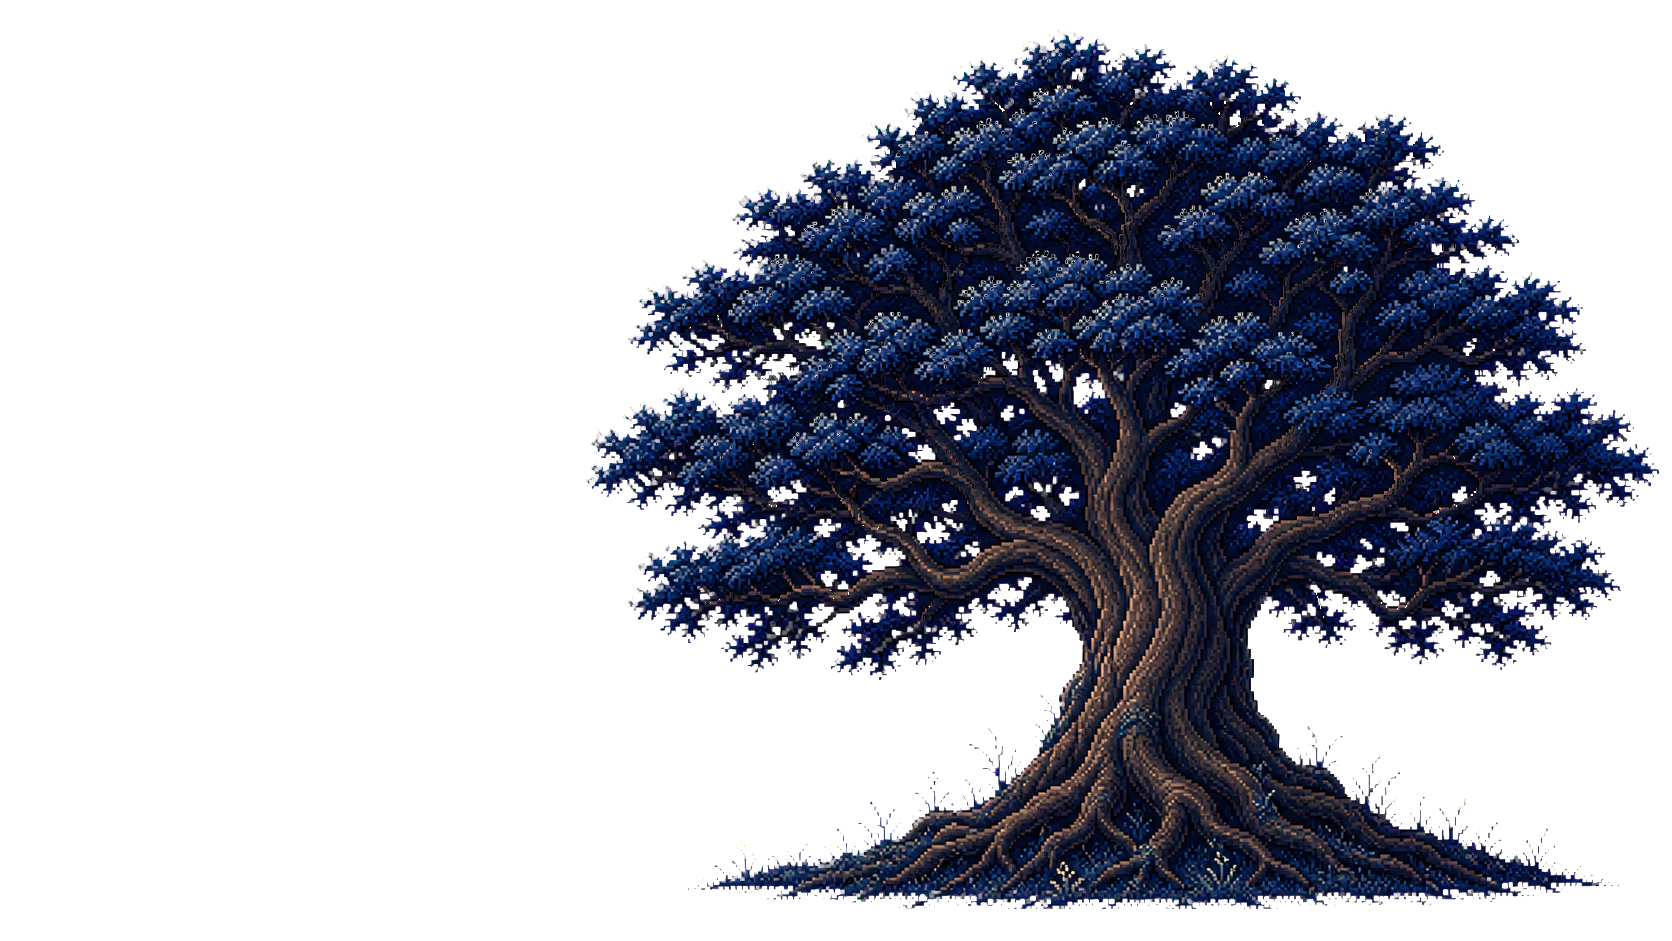
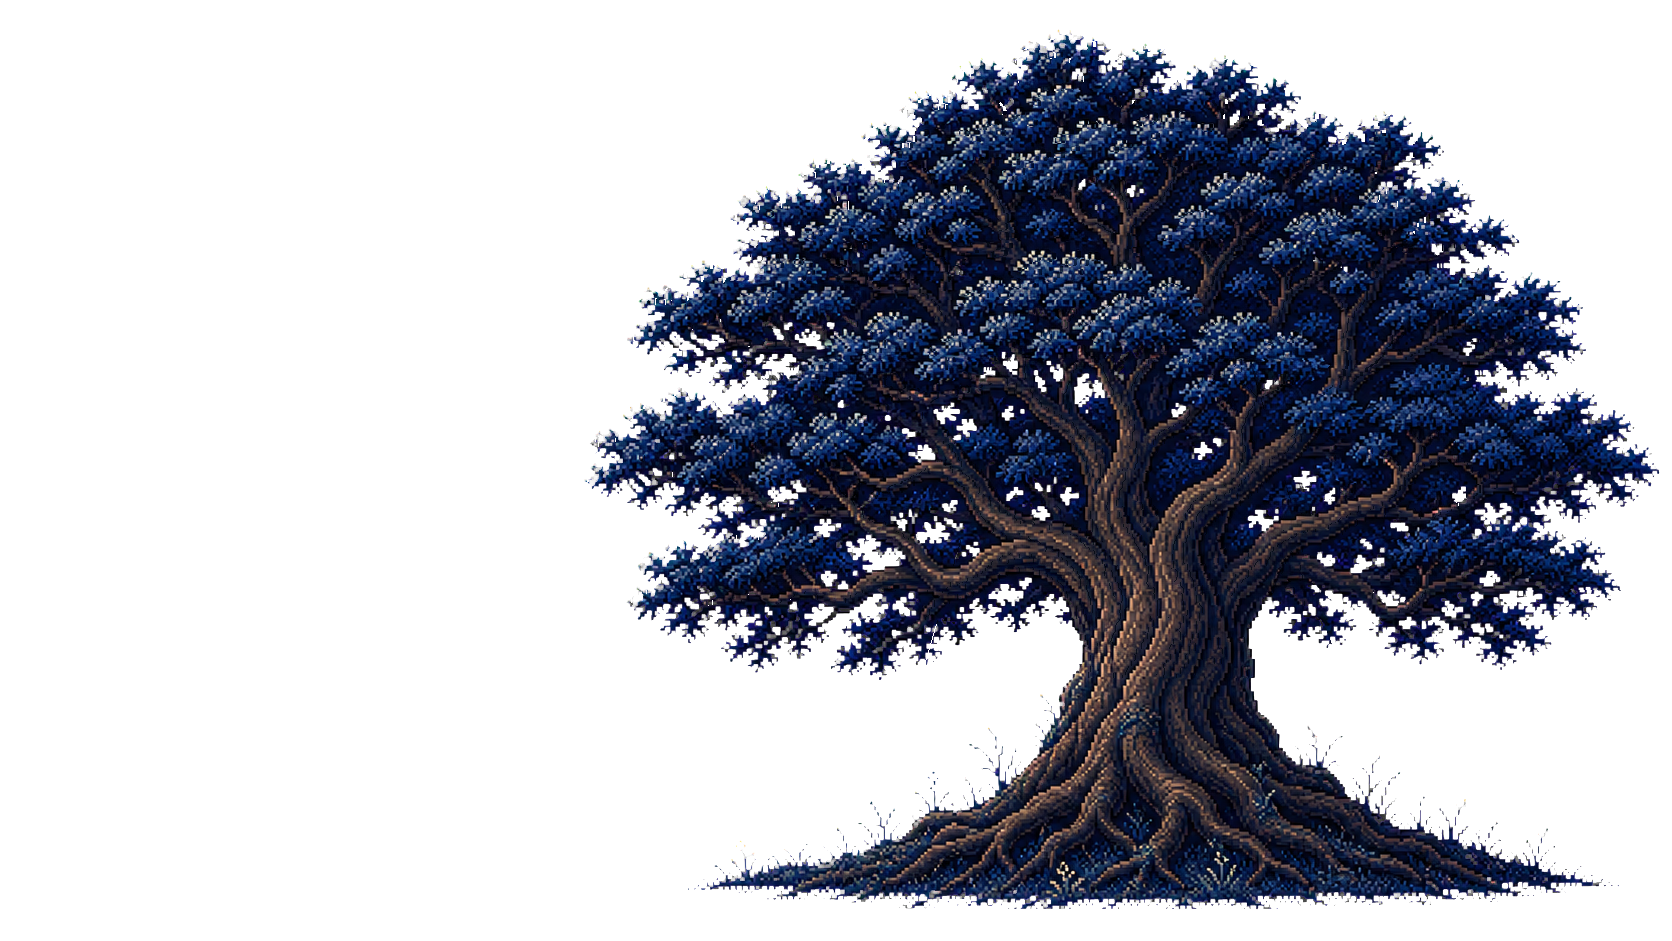
release 0.1.84

diff --git a/assets/js/dynamic-cv.js b/assets/js/dynamic-cv.js
@@ -6,8 +6,7 @@ const isLocalStudioPreview = ['127.0.0.1', 'localhost', '[::1]'].includes(window
 const isDaySceneStudio = Boolean(sceneStudio && isLocalStudioPreview && searchParams.get('studio') === 'day');
 const isSceneStudioMode = Boolean(sceneStudio && isLocalStudioPreview && (searchParams.get('studio') === '1' || searchParams.get('studio') === 'day'));
 const dayWindFrameDuration = 180;
-const nightWindFrameDuration = 260;
-const sceneStudioWindFrameDuration = isDaySceneStudio ? dayWindFrameDuration : nightWindFrameDuration;
+const nightWindFrameDuration = 240;
 const nightTreeWindFrames = Array.from(
   { length: 8 },
   (_, index) => `assets/pixel/home/tree-sway-v2-${String(index).padStart(2, '0')}.png`
@@ -1559,7 +1558,22 @@ function initializeSceneStudio(studio) {
   const inputs = [...studio.querySelectorAll('[data-scene-control]')];
   const status = studio.querySelector('[data-scene-status]');
   const canopySparkles = studio.querySelector('.studio-canopy-sparkles');
-  const storageKey = isDaySceneStudio ? 'zhengji-scene-studio-day-v4' : 'zhengji-scene-studio-night-v5';
+  const storageKey = isDaySceneStudio ? 'zhengji-scene-studio-day-v5' : 'zhengji-scene-studio-night-v6';
+  const sceneStudioWindDefaults = isDaySceneStudio
+    ? {
+        'day-tree-amplitude': 6,
+        'day-tree-band-height': 4,
+        'day-tree-cycle-seconds': 3,
+        'day-tree-show-mask': false,
+        'wind-frame-duration': dayWindFrameDuration
+      }
+    : {
+        'day-tree-amplitude': 3,
+        'day-tree-band-height': 8,
+        'day-tree-cycle-seconds': 3.6,
+        'day-tree-show-mask': false,
+        'wind-frame-duration': nightWindFrameDuration
+      };
   const sceneStudioConfig = {
     'tree-x': 22.8,
     'tree-y': 18.6,
@@ -1580,11 +1594,7 @@ function initializeSceneStudio(studio) {
     'ground-y': -5.2,
     'ground-scale': 0.65,
     'ground-layer': 5,
-    'day-tree-amplitude': 6,
-    'day-tree-band-height': 4,
-    'day-tree-cycle-seconds': 3,
-    'day-tree-show-mask': false,
-    'wind-frame-duration': sceneStudioWindFrameDuration
+    ...sceneStudioWindDefaults
   };
   const properties = {
     'tree-x': '--tree-x',
@@ -1700,11 +1710,7 @@ function initializeSceneStudio(studio) {
       'ground-y': -5.2,
       'ground-scale': 0.65,
       'ground-layer': 5,
-      'day-tree-amplitude': 6,
-      'day-tree-band-height': 4,
-      'day-tree-cycle-seconds': 3,
-      'day-tree-show-mask': false,
-      'wind-frame-duration': sceneStudioWindFrameDuration
+      ...sceneStudioWindDefaults
     });
     renderSceneStudio();
     restartSceneStudioAnimation();

diff --git a/index.html b/index.html
@@ -21,10 +21,10 @@
     <link rel="preconnect" href="https://fonts.googleapis.com" />
     <link rel="preconnect" href="https://fonts.gstatic.com" crossorigin />
     <link href="https://fonts.googleapis.com/css2?family=Bodoni+Moda:opsz,wght@6..96,500;6..96,600;6..96,700;6..96,800&family=DM+Mono:wght@400;500&family=Manrope:wght@400;500;600&display=swap" rel="stylesheet" />
-    <link rel="stylesheet" href="assets/css/dynamic-cv.css?v=0.1.83" />
-    <script src="assets/js/i18n.js?v=0.1.83" defer></script>
-    <script src="assets/js/day-ground-wind.js?v=0.1.83" defer></script>
-    <script src="assets/js/dynamic-cv.js?v=0.1.83" defer></script>
+    <link rel="stylesheet" href="assets/css/dynamic-cv.css?v=0.1.84" />
+    <script src="assets/js/i18n.js?v=0.1.84" defer></script>
+    <script src="assets/js/day-ground-wind.js?v=0.1.84" defer></script>
+    <script src="assets/js/dynamic-cv.js?v=0.1.84" defer></script>
   </head>
   <body data-active-chapter="home" data-scroll-motion="enabled">
     <a class="skip-link" href="#main-content" data-i18n="skip.content">Skip to content</a>
@@ -109,7 +109,7 @@
           <label>Vertical <input type="range" min="-18" max="18" step="0.1" value="-5.2" data-scene-control="ground-y" /><output data-scene-value="ground-y"></output></label>
           <label>Size <input type="range" min="0.5" max="1.15" step="0.01" value="0.65" data-scene-control="ground-scale" /><output data-scene-value="ground-scale"></output></label>
           <label>Depth / layer <input type="range" min="1" max="5" step="1" value="5" data-scene-control="ground-layer" /><output data-scene-value="ground-layer"></output></label>
-          <label class="studio-wind-frame-control">Motion / frame <input type="range" min="180" max="900" step="20" value="180" data-scene-control="wind-frame-duration" /><output data-scene-value="wind-frame-duration"></output></label>
+          <label class="studio-wind-frame-control">Motion / frame <input type="range" min="180" max="900" step="20" value="240" data-scene-control="wind-frame-duration" /><output data-scene-value="wind-frame-duration"></output></label>
         </div>
 
         <div class="studio-actions">

diff --git a/docs/design/TIME_OF_DAY_THEME.md b/docs/design/TIME_OF_DAY_THEME.md
@@ -9,8 +9,8 @@
 ## 00 场景
 
 - 夜晚保留现有星空、夜树、草地、Saber、树木星雨、坠落荧光与 Saber 音乐彩蛋。
-- 公开夜景与 Night Scene Studio 使用 `tree-sway-v2` 八帧树动画；第 1、5 帧保持批准静止树，树干、根系和主枝固定，其余帧只移动树冠叶片。树冠中央保留深蓝承托叶影，移动叶缘不得在枝干旁露出透明夜空。夜景的树、草与 Saber 待机帧使用 `260ms`；日景草地保持第 3 档、`180ms`。两种主题的节奏独立，禁止用全局常量覆盖夜景。
-- 白天公开场景使用 `sky-day-v2`、`ground-foundation-day-v1`、`tree-day-v2` 与 `meadow-day-wind-v7`；树木保持静态，草地维持第 3 档、`180ms` 节奏。Day Scene Studio 使用 `tree-day-pixel-wind-v2` 的内部承托、后叶、固定枝干和前叶四层 Canvas 风动树，并从 `meadow-day-v1` 实时绘制独立草地 Canvas；Malinois 素材暂存于 `assets/pixel/home/`，当前页面与 Day Scene Studio 均不加载其图层或动画。
+- 公开夜景与 Night Scene Studio 使用 `tree-sway-v2` 八帧树动画；第 1、5 帧保持批准静止树，树干、根系、主枝及其暗色描边逐像素固定。其余帧按内部承托暗叶 → 后景内层叶 → 前景叶团 → 固定枝干的遮盖顺序绘制：内层深蓝叶片以约 `1px` 低幅跟随，外层叶团保持完整摆幅。承托暗叶覆盖到树冠下缘，移动叶缘不得在枝干旁露出透明夜空。夜景的树、草与 Saber 待机帧使用 `240ms`；日景草地保持第 3 档、`180ms`。两种主题的节奏独立，禁止用全局常量覆盖夜景。
+- 白天公开场景使用 `sky-day-v2`、`ground-foundation-day-v1`、`tree-day-v2` 与 `meadow-day-wind-v7`；树木保持静态，草地维持第 3 档、`180ms` 节奏。Day Scene Studio 使用 `tree-day-pixel-wind-v2` 的内部承托、后叶、固定枝干和前叶四层 Canvas 风动树，并从 `meadow-day-v1` 实时绘制独立草地 Canvas。未启用的 Malinois 试验素材已移除，当前白天页面与 Day Scene Studio 均不加载角色图层或动画。
 - 白天不初始化依赖夜景叙事的坠落荧光、树木星雨和 Saber 音乐触发器，避免隐藏控件仍可聚焦或触发。
 - 白天与夜晚的 `1672×941` 天空、地基、树木和草地对应资产在所有响应式断点共享同一套场景坐标；禁止按主题单独移动对应图层，保证逐层一一对齐。
 - 日景主页当前使用原始 `tree-day-v2` 静态树；禁止整棵树的 CSS 位移和未锁定原像素的 AI 帧。后续树冠精灵图只能通过蒙版编辑生成，且树干、根系和主枝必须与 `tree-day-v2` 逐像素一致，避免透明空区、边缘拖影及根系位移。

diff --git a/docs/changes/0.1.83.md b/docs/changes/0.1.83.md
@@ -6,9 +6,12 @@
 
 ## 清理内容
 
-- 删除未被页面、运行时脚本、样式或本地风场调试页引用的 84 个旧像素资产：马犬试验帧、草地 v6、日间树 v1 与 v6–v9，以及夜间树 v1。
-- 保留公开页面动态加载的日间草地 v7 帧与夜间树 v2 帧。
+- 首页素材包从 315 张收敛到 40 张在用图片；发布仓库删除其中 84 个曾被跟踪的旧像素资产，其余本地试验导出同步移出工作区。清理范围包括马犬试验帧、草地风动 v1–v6 过程稿、日间树 v1 与 v6–v9、夜间树 v1、旧精灵表和废弃角色导出。
+- 删除根目录 `tmp/` 的 126 个临时文件、已验收的页面截图、生成缓存和三项退役工具；当前树木分层工具继续保留在本地，夜间生成器改用仍在资产包内的 `tree-sway-v2-00.png` 作为静止源帧。
+- 将 67 个可重建的浏览器截图、日志、旧视觉方案和未引用副图移出项目目录并保存到系统临时归档，共 34,858,294 字节；可编辑源目录、仓库备份与夜景构图参考继续保留。
+- 当前公开场景保留日间草地 v7、夜间树 v2、日间树四层风动素材、Saber 待机素材和两艘背景舰船；主页素材目录内已无未引用图片。
 - 将 `tmp/`、本地工具、场景截图、马犬试验、旧树与旧草地生成序列加入 `.gitignore`，避免后续中间产物进入发布仓库。
+- 昼夜主题与交互规则同步移除已经退役的 Malinois 引用。
 - CSS 与运行时脚本缓存参数升级至 `0.1.83`。
 
 ## 验证

diff --git a/docs/changes/0.1.84.md b/docs/changes/0.1.84.md
@@ -1,0 +1,20 @@
+# 0.1.84
+
+- 状态：本地工作树
+- 日期：2026-08-12
+- 版本来源：`package.json`
+- 影响页面：公开首页、Night Scene Studio、Day Scene Studio
+
+## 参数定稿
+
+- 昼夜场景共用已确认的构图参数：树木 `22.8 / 18.6 / 0.75 / z1`，Saber `62.1 / 68 / 0.48 / z3`，地基 `4.8 / 1.02 / 0.89 / z1`，草地 `9.3 / -5.2 / 0.65 / z5`。
+- 夜间树、草与 Saber 待机帧固定为 `240ms`；Night Studio 草稿恢复值同步为最大摆幅 `3px`、条带高度 `8px`、循环时长 `3.6s` 和 `240ms`。夜间不显示日间条带风控制，这组条带值只用于保持复制配置完整。
+- 夜间八帧树动画重新分层生成：内部承托暗叶封住树冠空洞，主干走廊里的深蓝叶片以约 `1px` 跟随，外层叶团保持原摆幅，暖色树皮及相邻暗色描边作为最终固定层逐像素覆盖。圈内下半树冠已经纳入无透明天空回归范围。
+- 日间树冠和草地保持最大摆幅 `6px`、条带高度 `4px`、循环时长 `3.0s`；公开日间草地与 Day Studio 的基础帧节奏保持 `180ms`。
+- Studio 本地存储键升级为 day v5 与 night v6，旧草稿不会覆盖本次定稿值；恢复按钮按当前昼夜模式载入对应参数。
+- 静态资源缓存参数统一升级到 `0.1.84`。
+
+## 验证
+
+- `npm test`：126 项通过。
+- 本地 Day Studio 实测回读 `6px / 4px / 3.0s / 180ms`，Night Studio 实测回读 `3px / 8px / 3.6s / 240ms`；两页控制台均无错误。

diff --git a/docs/CHANGELOG.md b/docs/CHANGELOG.md
@@ -4,6 +4,7 @@
 
 | 版本 | 日期 | 状态 | 摘要 | 详细记录 |
 | --- | --- | --- | --- | --- |
+| `0.1.84` | 2026-08-12 | 本地工作树 | 固定昼夜两套 Scene Studio 参数，并将夜间树、草与 Saber 节奏定稿为 240ms | [`changes/0.1.84.md`](changes/0.1.84.md) |
 | `0.1.83` | 2026-08-12 | GitHub Pages 发布 | 清理未引用的中间像素资产，并将本地生成物纳入 Git 忽略规则 | [`changes/0.1.83.md`](changes/0.1.83.md) |
 | `0.1.82` | 2026-08-12 | GitHub Pages 发布 | 发布日间与夜间树更新、日间文字配色，并将建设进度更新为 50% | [`changes/0.1.82.md`](changes/0.1.82.md) |
 | `0.1.81` | 2026-08-02 | 本地工作树 | 定稿白天场景组合，默认切换为强风 180ms，并升级本地 Studio 草稿与缓存版本 | [`changes/0.1.81.md`](changes/0.1.81.md) |

diff --git a/docs/design/INTERACTION_RULES.md b/docs/design/INTERACTION_RULES.md
@@ -4,7 +4,7 @@
 
 ## 00 / Saber 音乐彩蛋
 
-- 仅在夜晚主题启用；白天场景使用 Malinois，Saber 与音乐触发区不显示。
+- 仅在夜晚主题启用；白天场景不显示角色层，Saber 与音乐触发区不显示。
 - 连续点击 Saber 五次解锁并播放《孤独な巡礼》。
 - 音乐开始后跨 01–05 章节持续播放，滚动离开 00 不触发暂停。
 - 已解锁后再次点击 Saber 切换暂停与继续播放；标签页隐藏和页面离开时暂停，歌曲结束后可再次点击重播。
